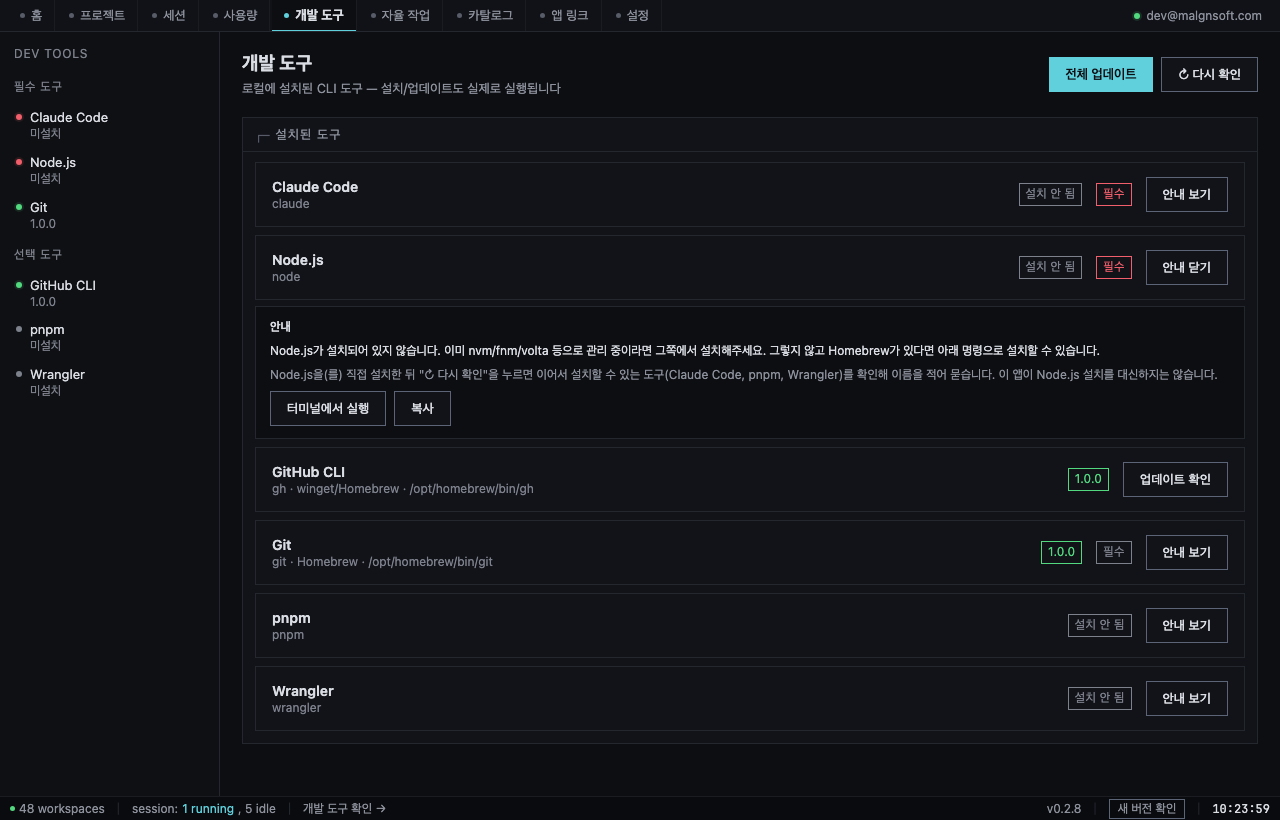
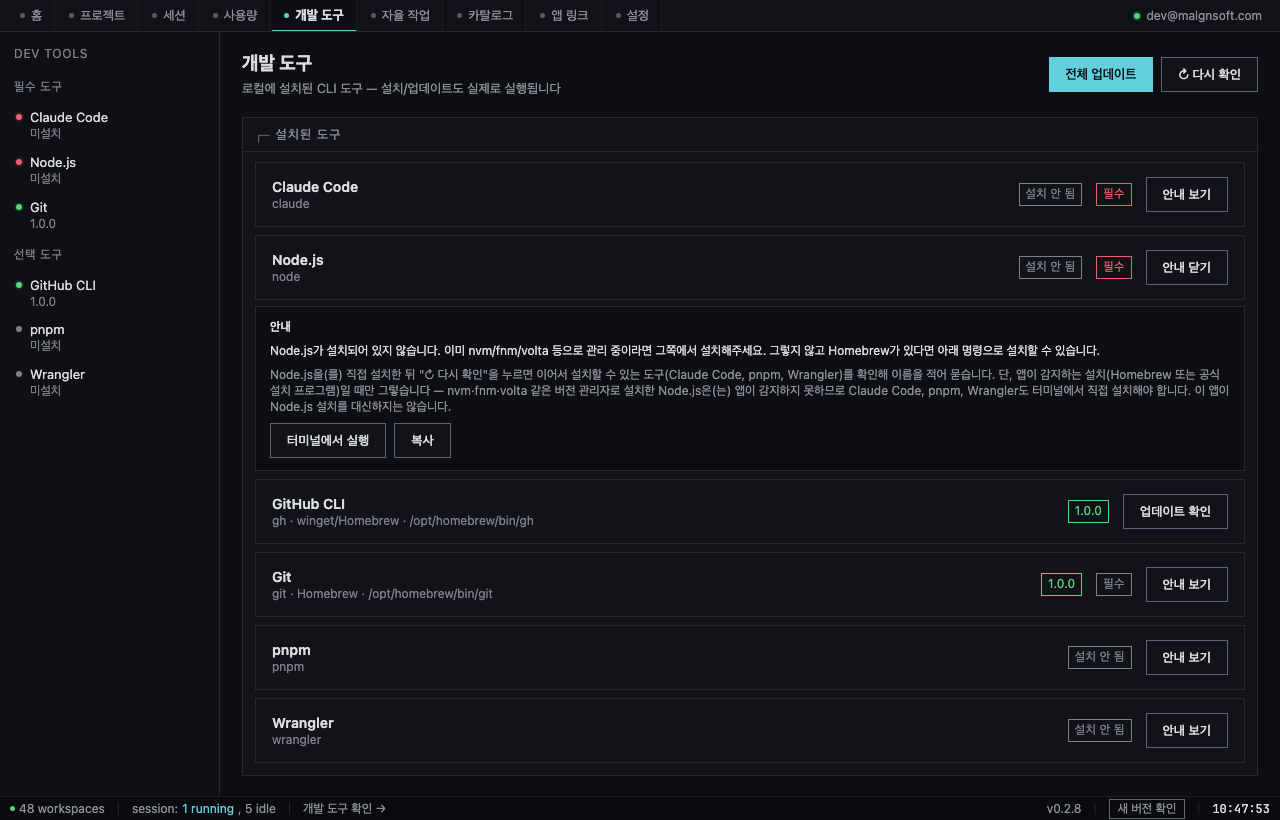
fix(r14): 리뷰 Minor 4건 반영 — 버전 미확인 선행 도구의 동의 문구·의존 도구 제외, 플러그인 배너 단정 완화, usage 픽스처 모순, mac Node 안내 한정
- RV-001: 경로는 있으나 버전 미확인(installed=false, path 있음)인 실행 대상은 배치 동의창에 "설치"가 아니라
  "업데이트(버전 미확인)"로 적고, 그 도구를 선행으로 삼는 의존 도구는 처음부터 제외한다(planBatchInstall 순수 함수).
  제외한 도구는 이어서 설치 handled에서 빼 선행 도구 버전이 확인되면 이름을 적어 다시 묻는다.
  하네스: macOS/Homebrew/run 모양 3 시나리오(동의 문구·확인 뒤 연쇄·끝내 미확인·거절) + 순수 함수 단언.
- RV-003: 플러그인 없음 배너를 "목록에서 찾지 못했습니다"로 바꿔 읽기 실패와 구분되지 않는 단정을 없앤다.
- RV-004: usage 미설치 계열 장면의 check_dev_tools 스텁을 claude path 없음으로 맞추고 상태바↔본문 모순 단언을 더한다.
- RV-005: macOS Node 안내의 "다시 확인하면 이어서 묻는다"를 Homebrew·공식 설치 프로그램으로 한정하고 nvm 등은 직접 설치로 안내한다.

diff --git a/src/views/devTools.ts b/src/views/devTools.ts
@@ -44,7 +44,7 @@ import { state, notifyChange } from '../state';
 import { fetchDevTools, previewDevToolUpdate, updateDevTool, installDevTool, openManualInstruction } from '../devToolsApi';
 import type { DevToolStatus, DevToolPreview, DevToolActionResult, TerminalLaunchResult } from '../devToolsApi';
 import { parseRoute } from '../route';
-import { orderByInstallDependency, unmetInstallDependencies, isInstallConfirmedOutcome, describeUnmetDependencies, pendingDependentsOf, planInstallChain } from '../devToolsOrder';
+import { orderByInstallDependency, unmetInstallDependencies, isInstallConfirmedOutcome, describeUnmetDependencies, pendingDependentsOf, planInstallChain, planBatchInstall, describeBatchConsent } from '../devToolsOrder';
 
 // IA §4-5(§7-6): 개발 도구 사이드바 행을 클릭하면 본문의 해당 행으로 스크롤 +
 // 일시 강조한다(새 라우트·API 없음, 순수 클라이언트 동작). 강조는 영속 상태가
@@ -356,33 +356,33 @@ function toggleLog(toolId: string): void {
 // 영향 제외)은 그대로이고 순서와 건너뜀만 바뀐다.
 async function handleUpdateAll(): Promise<void> {
   const itemsBefore = state.devTools.items;
-  const runnable = state.devTools.items.filter((t) => t.actionKind === 'run');
-  const updateTargets = runnable.filter((t) => t.installed);
-  const installTargets = runnable.filter((t) => !t.installed);
+  const plan = planBatchInstall(state.devTools.items);
+  const { updateTargets, blocked, installTargets, unverifiedTargets } = plan;
+  const runnableIds = new Set(state.devTools.items.filter((t) => t.actionKind === 'run').map((t) => t.id));
 
   // 이전 배치의 건너뜀 사유는 새 배치 시작과 함께 지운다.
   for (const t of state.devTools.items) batchSkipReason[t.id] = null;
   const installedNow = new Set(state.devTools.items.filter((t) => t.installed).map((t) => t.id));
-  const runnableIds = new Set(runnable.map((t) => t.id));
   let skippedCount = 0;
 
-  // 동의 문구가 실제 실행될 대상과 일치하도록(R14): 선행 도구가 설치돼 있지 않은데 그
-  // 선행 도구가 이번 배치의 실행 대상도 아니면(예: Node.js가 `--version` 응답 없음으로
-  // installed=false이고 manual이라 배치에 못 들어오는 경우) 이 도구는 어떤 동의를 받아도 이번
-  // 배치에서 실행될 수 없다 — "설치합니다" 요약에 이름을 올리지 않고 처음부터 사유와 함께
-  // 건너뛴다.
-  const blocked = installTargets.filter((t) => unmetInstallDependencies(t, installedNow).some((dep) => !runnableIds.has(dep)));
+  // 동의 문구가 실제 실행될 대상과 일치하도록(R14): 선행 도구가 설치돼 있지 않은데 (a) 그 선행
+  // 도구가 이번 배치의 실행 대상도 아니거나(예: Node.js가 `--version` 응답 없음으로
+  // installed=false이고 manual) (b) 경로는 있지만 버전 미확인이라 이번 배치에서 설치 확인이
+  // 보장되지 않으면(예: macOS Homebrew Node가 run이지만 실제로는 업데이트가 돌고 버전이 끝내
+  // 확인되지 않을 수 있음) 이 도구는 이번 배치에서 실행될 수 없다 — "설치합니다" 요약에 이름을
+  // 올리지 않고 처음부터 사유와 함께 건너뛴다. 판정은 planBatchInstall(devToolsOrder.ts).
   for (const t of blocked) {
     batchSkipReason[t.id] = describeUnmetDependencies(unmetInstallDependencies(t, installedNow), state.devTools.items);
     state.devTools.lastResult[t.id] = null;
     skippedCount += 1;
   }
-  const askable = installTargets.filter((t) => !blocked.includes(t));
 
+  // 동의 목록 = 실행 목록. 경로는 있으나 버전 미확인인 도구는 "설치"가 아니라 "업데이트(버전
+  // 미확인)"로 따로 적는다 — 실행은 backend가 install→update로 위임하므로 실제로도 업데이트다.
+  const askable = [...installTargets, ...unverifiedTargets];
   let confirmedInstallTargets: DevToolStatus[] = [];
   if (askable.length > 0) {
-    const names = askable.map((t) => t.name).join(', ');
-    const proceed = await confirmDialog(`다음 ${askable.length}개 도구를 설치합니다: ${names}. 계속할까요?`);
+    const proceed = await confirmDialog(describeBatchConsent(installTargets, unverifiedTargets, plan.deferredByUnverified));
     if (proceed) {
       confirmedInstallTargets = askable;
     }
@@ -435,8 +435,12 @@ async function handleUpdateAll(): Promise<void> {
   notifyChange();
 
   // 배치가 끝난 뒤 새로 확인된 선행 도구가 있으면 이어서 설치를 제안한다. 이번 배치가 이미
-  // 다룬 도구(runnable 전체 — 실행·건너뜀·개별 확인 대기·요약 거절 모두)는 다시 제안하지 않는다.
-  await offerInstallChain(itemsBefore, runnableIds);
+  // 다룬 도구(실행·개별 확인 대기·요약 거절)는 다시 제안하지 않는다. 선행 도구 미확인으로 처음부터
+  // 제외한 도구(blocked)는 다루지 않았으므로 제외 대상이 아니다 — 그 선행 도구가 이번 배치에서
+  // 버전 확인되면(false→true) 이름을 적은 동의를 받아 이어서 설치한다.
+  const handled = new Set(runnableIds);
+  for (const t of blocked) handled.delete(t.id);
+  await offerInstallChain(itemsBefore, handled);
 }
 
 // 한 도구의 "미리보기 → 신뢰성/영향 범위 검사 → 실행" 한 단계. 배치와 이어서 설치가 같은
@@ -819,7 +823,7 @@ function renderChainHint(tool: DevToolStatus, mode: 'preview' | 'manual'): HTMLE
   const text =
     mode === 'preview'
       ? `설치가 확인되면 이어서 설치할 수 있는 도구(${names})를 이름을 적어 한 번 더 묻습니다. 동의하기 전에는 설치하지 않습니다.`
-      : `${tool.name}을(를) 직접 설치한 뒤 "↻ 다시 확인"을 누르면 이어서 설치할 수 있는 도구(${names})를 확인해 이름을 적어 묻습니다. 이 앱이 ${tool.name} 설치를 대신하지는 않습니다.`;
+      : `${tool.name}을(를) 직접 설치한 뒤 "↻ 다시 확인"을 누르면 이어서 설치할 수 있는 도구(${names})를 확인해 이름을 적어 묻습니다. 단, 앱이 감지하는 설치(Homebrew 또는 공식 설치 프로그램)일 때만 그렇습니다 — nvm·fnm·volta 같은 버전 관리자로 설치한 ${tool.name}은(는) 앱이 감지하지 못하므로 ${names}도 터미널에서 직접 설치해야 합니다. 이 앱이 ${tool.name} 설치를 대신하지는 않습니다.`;
   const node = el('div', { className: 'devtool-panel-notes devtool-chain-hint' }, [text]);
   return node;
 }

diff --git a/src/devToolsOrder.ts b/src/devToolsOrder.ts
@@ -90,6 +90,66 @@ export function describeUnmetDependencies(unmetIds: readonly string[], items: re
   return parts.join(' / ');
 }
 
+// 경로는 찾았는데 `--version`에 응답하지 않아 installed=false인 도구(백엔드 query.rs: installed =
+// version.is_some(), path는 따로 채움). "설치돼 있지 않다"가 아니라 "버전을 확인하지 못했다"이고,
+// 실행하면 설치가 아니라 업데이트가 돈다(actions.rs: 경로가 있으면 install → update 위임).
+export function isVersionUnverified(tool: ChainTool): boolean {
+  return !tool.installed && !!tool.path;
+}
+
+export interface BatchInstallPlan<T extends ChainTool> {
+  // 설치돼 있는 도구의 업데이트(요약 동의 없이 배치 처리 — 기존 동의 범위).
+  readonly updateTargets: T[];
+  // 아직 설치되지 않은 도구 중 이번 배치에서 실제로 설치될 수 있는 것(경로 없음) — "설치합니다" 목록.
+  readonly installTargets: T[];
+  // 경로는 있는데 버전을 확인하지 못한 실행 대상 — "설치"가 아니라 "업데이트(버전 미확인)"로 따로 묻는다.
+  readonly unverifiedTargets: T[];
+  // 선행 도구가 설치 확인되지 않았고 이번 배치에서 확인될 보장도 없어 처음부터 제외하는 도구.
+  readonly blocked: T[];
+  // blocked 중 선행 도구가 "버전 미확인으로 실행되는" 경우 — 그 도구의 버전이 확인되면 이어서 설치로 다시 묻는다.
+  readonly deferredByUnverified: T[];
+}
+
+// "전체 업데이트"의 동의 대상 계산(순수). 동의 문구에 오르는 도구 == 실제로 실행될 도구가 되도록,
+// 선행 도구가 (a) 이번 배치의 실행 대상이 아니거나 (b) 버전 미확인이라 이번 배치에서 설치 확인이
+// 보장되지 않으면 의존 도구를 처음부터 제외한다.
+export function planBatchInstall<T extends ChainTool>(items: readonly T[]): BatchInstallPlan<T> {
+  const runnable = items.filter((t) => t.actionKind === 'run');
+  const installedNow = new Set(items.filter((t) => t.installed).map((t) => t.id));
+  const runnableIds = new Set(runnable.map((t) => t.id));
+  const pending = runnable.filter((t) => !t.installed);
+  const unverifiedIds = new Set(pending.filter(isVersionUnverified).map((t) => t.id));
+  const unmetOf = (t: T) => unmetInstallDependencies(t, installedNow);
+  const blocked = pending.filter((t) => unmetOf(t).some((dep) => !runnableIds.has(dep) || unverifiedIds.has(dep)));
+  const rest = pending.filter((t) => !blocked.includes(t));
+  return {
+    updateTargets: runnable.filter((t) => t.installed),
+    installTargets: rest.filter((t) => !isVersionUnverified(t)),
+    unverifiedTargets: rest.filter(isVersionUnverified),
+    blocked,
+    deferredByUnverified: blocked.filter((t) => unmetOf(t).some((dep) => unverifiedIds.has(dep))),
+  };
+}
+
+// 배치 동의창 문구(순수). 설치와 "업데이트(버전 미확인)"를 따로 적어 실제 일어날 일과 맞춘다.
+export function describeBatchConsent(
+  installTargets: readonly { name: string }[],
+  unverifiedTargets: readonly { name: string }[],
+  deferred: readonly { name: string }[]
+): string {
+  const names = (xs: readonly { name: string }[]) => xs.map((t) => t.name).join(', ');
+  const parts: string[] = [];
+  if (installTargets.length > 0) parts.push(`다음 ${installTargets.length}개 도구를 설치합니다: ${names(installTargets)}.`);
+  if (unverifiedTargets.length > 0) {
+    parts.push(`다음 ${unverifiedTargets.length}개 도구는 이 PC에서 파일이 발견됐지만 버전을 확인하지 못해, 설치가 아니라 업데이트를 시도합니다(버전 미확인): ${names(unverifiedTargets)}.`);
+  }
+  if (deferred.length > 0) {
+    parts.push(`선행 도구의 버전이 확인되기 전이라 ${names(deferred)}은(는) 이번에는 설치하지 않으며, 확인되면 이름을 적어 다시 묻습니다.`);
+  }
+  parts.push('계속할까요?');
+  return parts.join(' ');
+}
+
 // 이 도구를 선행 도구로 삼는데 아직 설치되지 않은 도구들(화면 안내 문구용).
 export function pendingDependentsOf<T extends ChainTool>(toolId: string, items: readonly T[]): T[] {
   return items.filter((t) => !t.installed && (t.installDependsOn ?? []).includes(toolId));

diff --git a/src/autonomyPrereq.ts b/src/autonomyPrereq.ts
@@ -62,12 +62,14 @@ export function computeAutonomyPrereqs(input: AutonomyPrereqInput, pluginId: str
     });
   }
 
-  // (c) 플러그인 없음 — 목록 조회가 성공했고 그 안에 조직 표준 플러그인이 없을 때만.
+  // (c) 플러그인 없음 — 목록 조회가 성공했고 그 안에 조직 표준 플러그인이 없을 때만. 단 백엔드
+  // list_installed_plugins는 홈 디렉터리 없음·JSON 파싱 실패·스키마 변경도 오류 없이 빈 목록으로
+  // 돌려주므로 "설치되어 있지 않다"고 단정하지 않고 "목록에서 찾지 못했다"고만 말한다.
   if (catalog.loaded && !catalog.error && !catalog.plugins.some((p) => p.id === pluginId)) {
     const none = catalog.plugins.length === 0;
     notices.push({
       kind: 'plugin-missing',
-      message: 'malgn-agent 플러그인이 설치되어 있지 않아 서브에이전트·스킬을 쓰는 자율 작업이 실패할 수 있습니다.',
+      message: '설치된 플러그인 목록에서 malgn-agent 플러그인을 찾지 못했습니다. 서브에이전트·스킬을 쓰는 자율 작업이 실패할 수 있습니다.',
       actionLabel: '플러그인 설치하러 가기',
       // 설치 버튼이 있는 곳: 설치된 플러그인이 전혀 없으면 카탈로그 빈 상태, 그 외에는 MCP 설정의
       // malgnai-hub 안내 행(둘 다 같은 installPlugin 흐름).
